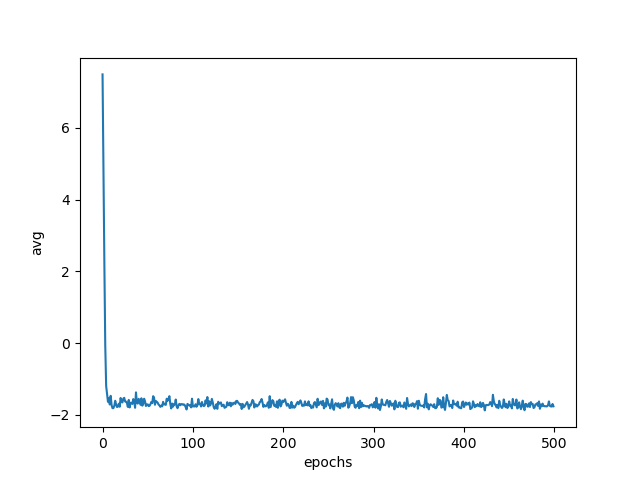
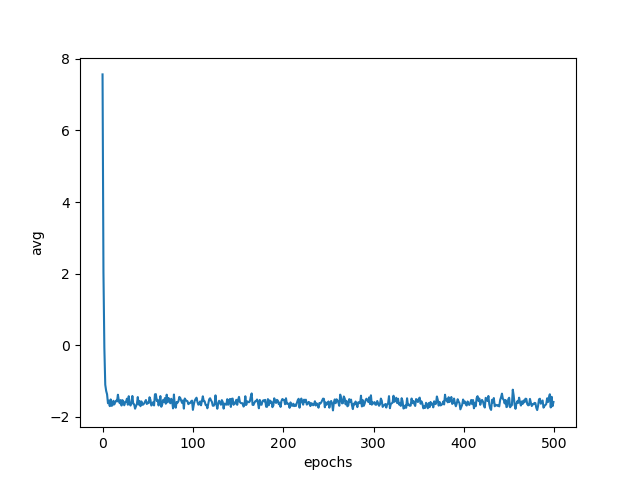
roulette fixed

diff --git a/selection_algorithms.py b/selection_algorithms.py
@@ -58,10 +58,12 @@ class RouletteSelection(BaseSelection):
     #     return [i for i in range(len(scores)) if roulette[i] > randint(roulette[-1])]
 
     def calculateDistribution(self, population):
-        # min_func_val = min(p.decode() for p in population)
-        values = [1 / (ind.score(config.OBJECTIVE)) for ind in population]
+        min_func_val = min([ind.score(config.OBJECTIVE) for ind in population])
+        scale = abs(min_func_val) + 1 if min_func_val < 0 else 0
+        
+        values = [1 / (ind.score(config.OBJECTIVE) + scale) for ind in population]
         sum_func = sum(1 / v for v in values)
-        # prawdopodobienstwa dla kazdego osobnika
+
         probabilities = [val / sum_func for val in values]
         distributions = [probabilities[0]]
 
